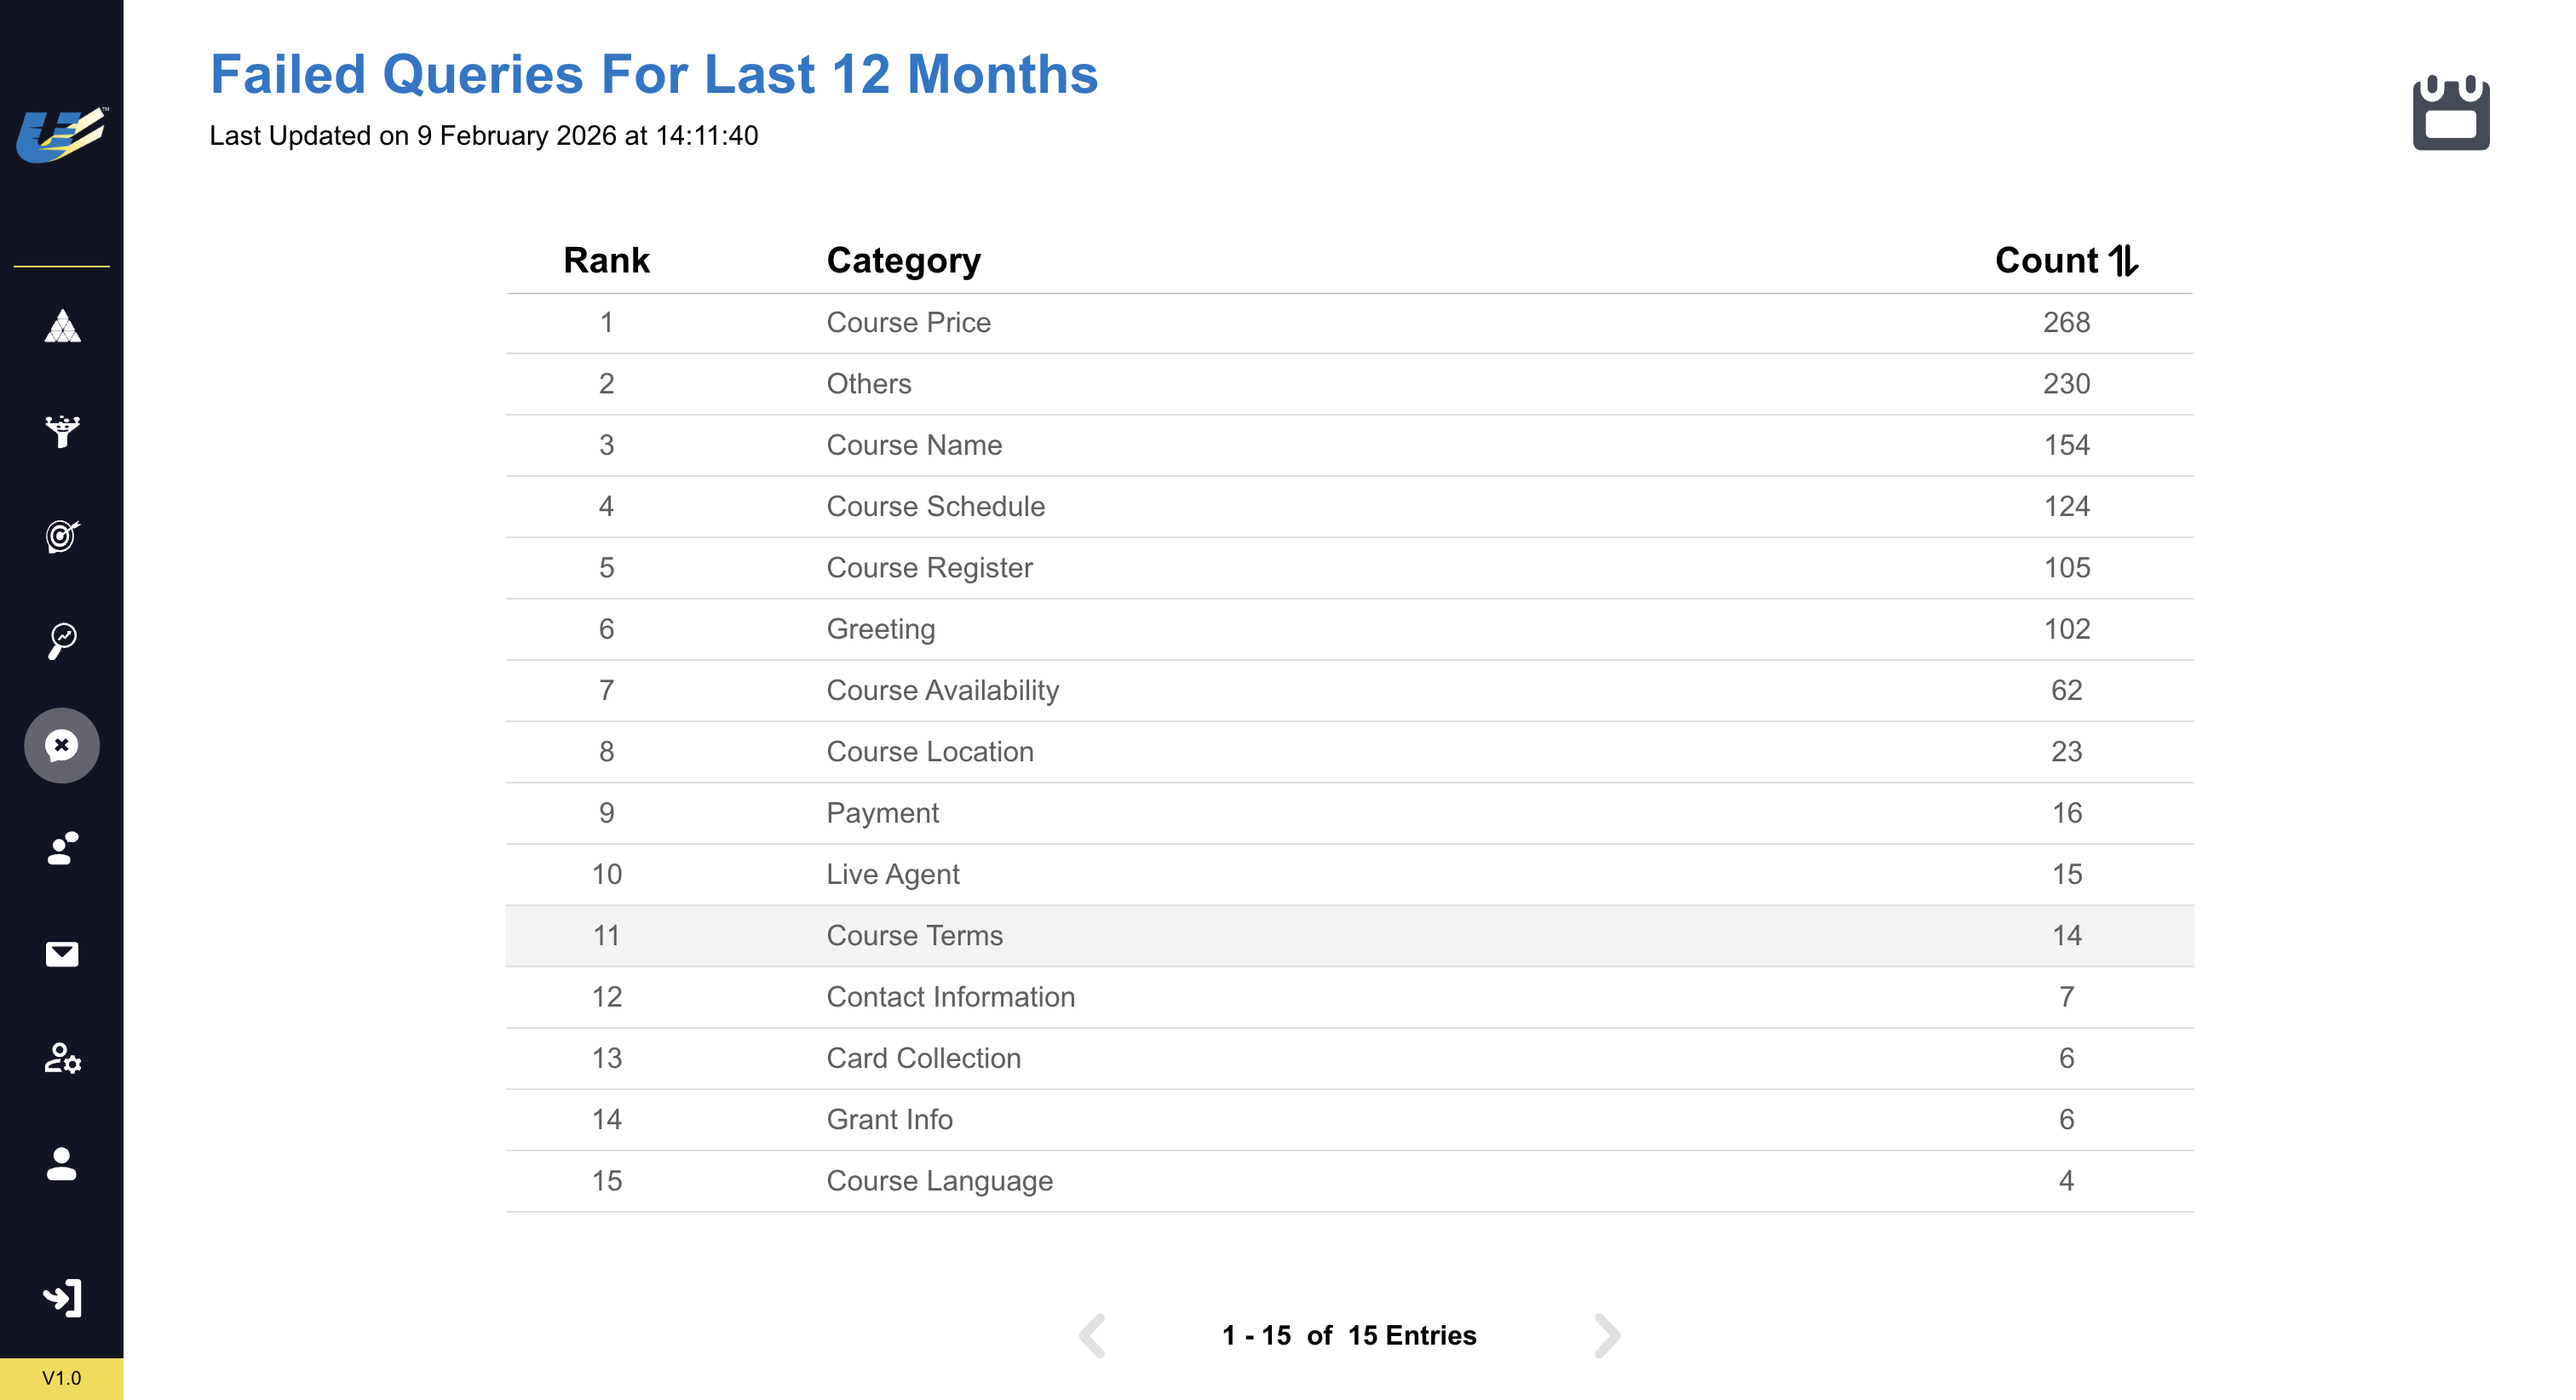
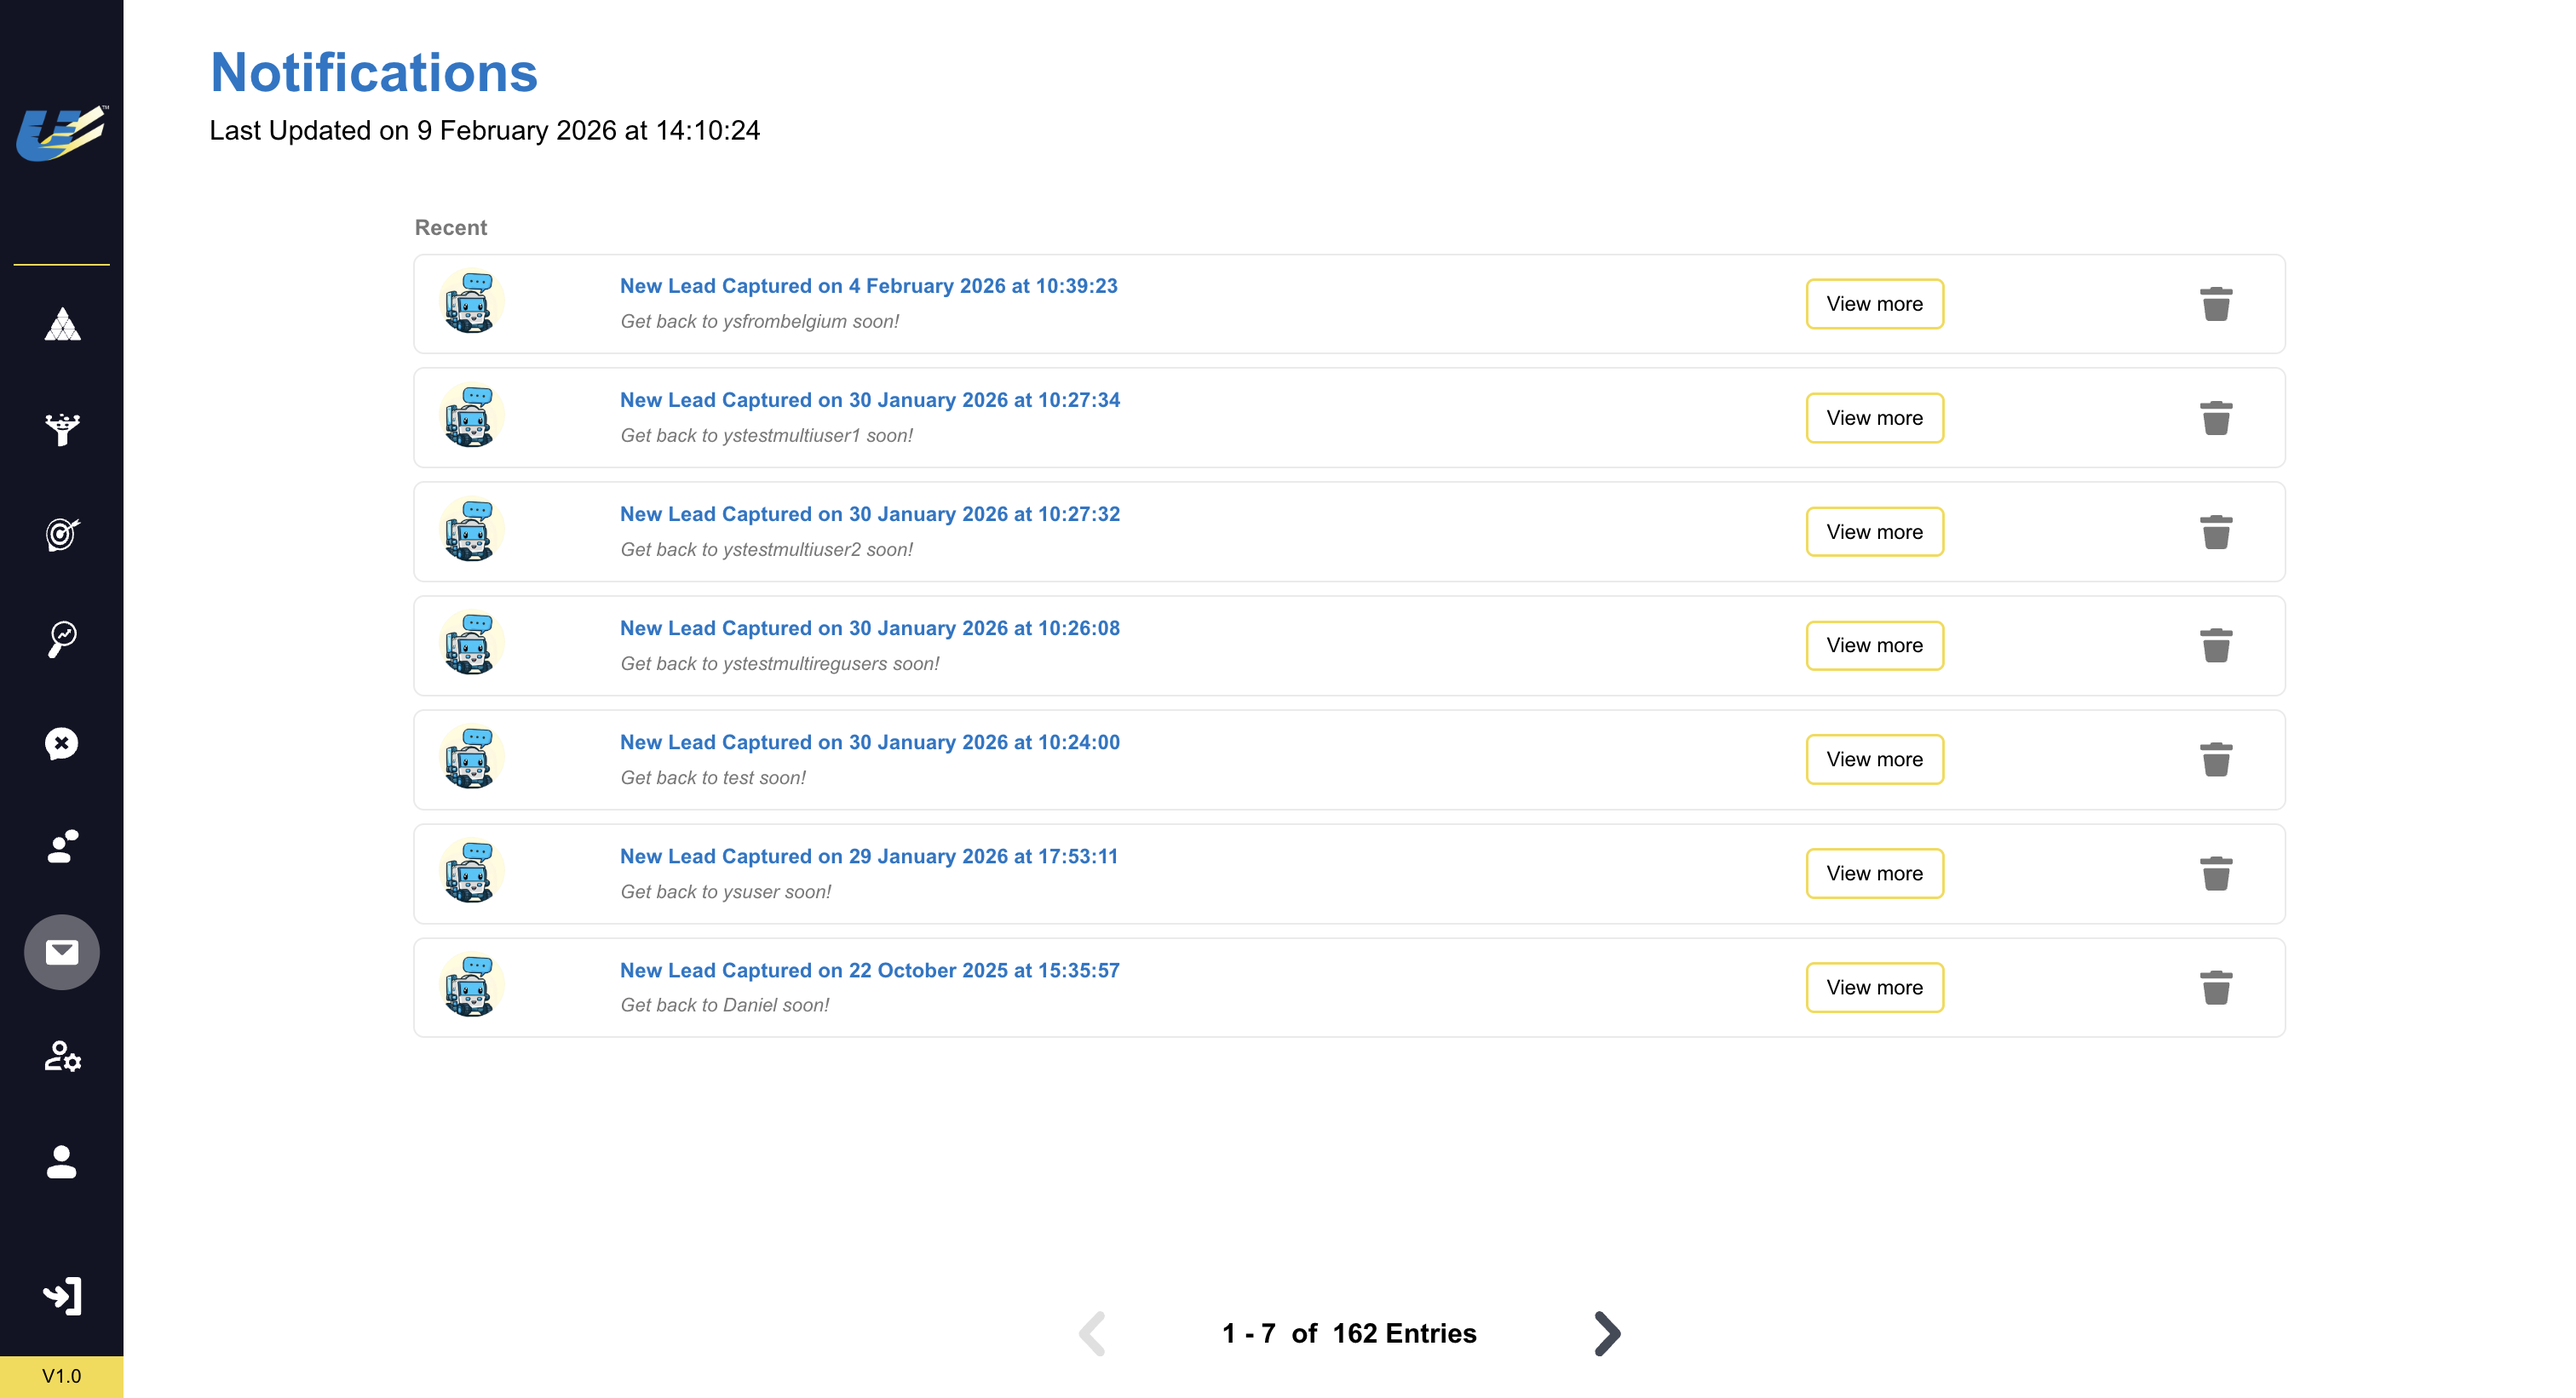
Updated project contents

diff --git a/app/app/page.tsx b/app/app/page.tsx
@@ -38,7 +38,7 @@ const DATA = {
   projects: [
     {
       title: "License Plate Extraction",
-      description: "An LLM-powered application that extracts and summarizes key information from dense PDF reports.",
+      description: "A computer vision pipeline project designed to automate license plate data capture and streamline data entry.",
       techStack: [
         "Python",
         "Flask",
@@ -47,13 +47,17 @@ const DATA = {
         "Optical Character Recognition",
         "Nvidia Jetson",
       ],
-      highlights: ["Processes 100+ page PDFs in seconds", "Implements RAG for highly accurate query responses"],
+      highlights: [
+        "Automated license plate data logging", 
+        "Minimizes human error",
+        "Boosts efficiency by 30% by eliminating paperwork and manual data entry",
+      ],
       contribution: "Lead Backend Developer",
-      images: ["/project1-a.jpg", "/project1-b.jpg"],
+      images: ["license-image-6.png","/license-image-1.png", "/license-image-2.png","license-image-3.png","license-image-4.png","license-image-5.png"],
     },
     {
       title: "AI Chatbot & Analytics",
-      description: "An LLM-powered application that extracts and summarizes key information from dense PDF reports.",
+      description: "An analytics tool for large language model chatbots that captures domain specific data, including trends, sales, popular topics, and speech patterns, to continuously improve performance and business.",
       techStack: [
         "JavaScript",
         "React", 
@@ -66,14 +70,20 @@ const DATA = {
         "Model Pipeline",
         "Raspberry Pi 5",
       ],
-      highlights: ["Processes 100+ page PDFs in seconds", "Implements RAG for highly accurate query responses"],
+      highlights: [
+        "Track trendlines for popular topics", 
+        "Analyze user demographics",
+        "Collect training data to improve existing models",
+        "Enhance understanding of human speech",
+        "Evaluate model performance",
+      ],
       contribution: "Lead Fullstack Developer",
       // Add paths to your actual images here
-      images: ["/ua-image-1.png", "/ua-image-2.png"] 
+      images: ["/ua-image-1.png", "/ua-image-2.png", "ua-image-3.png", "ua-image-4.png"] 
     },
     {
       title: "WitAI Chatbot",
-      description: "A web-based computer vision tool that identifies and tracks objects from live video feeds.",
+      description: "A large language model chatbot leveraging Meta\’s Wit.ai API for natural language processing, enabling human-like interactions and domain-specific responses while filtering out irrelevant queries.",
       techStack: [
         "JavaScript",
         "CSS3",
@@ -85,14 +95,18 @@ const DATA = {
         "Natural Language Processing",
         "Raspberry Pi 5",
       ],
-      highlights: ["Achieves 30 FPS inference in the browser", "Custom-trained YOLOv8 model for specialized tracking"],
+      highlights: [
+        "Natural, human-like speech", 
+        "Filtering irrelevant queries",
+        "Domain-specific responses"
+      ],
       contribution: "Lead Fullstack Developer",
-      images: ["/project2-a.jpg", "/project2-b.jpg"],
+      images: ["/unicon-image-1.png", "/unicon-image-2.png","unicon-image-3.png"],
       liveUrl: "https://www.ubts.academy/en/?gad_source=1&gad_campaignid=21303038567&gbraid=0AAAAA9u5AB7lxHzCyJnhrgS3_4xlNOrUT&gclid=CjwKCAjwpcTNBhA5EiwAdO1S9mURvqJS6nx7dX0UcdbB9-ZWq9Bt7gUJlqmw6UxF-y0I0kMosVpOVxoCn5EQAvD_BwE"
     },
     {
       title: "Kilaluan Cahaya Website",
-      description: "A fullstack marketing tool that generates optimized blog posts and social media copy using LLMs.",
+      description: "A corporate website designed to showcase industrial sand supply and dredging services, highlight sustainable resource management, and provide a platform for client engagement and inquiries.",
       techStack: [
         "TypeScript",
         "React",
@@ -100,9 +114,12 @@ const DATA = {
         "CSS3",
         "Vercel",
       ],
-      highlights: ["Built dynamic prompt templates", "Integrated user authentication and payment tiers"],
+      highlights: [
+        "Professional website for an industrial services company", 
+        "Responsive and user-friendly corporate website"
+      ],
       contribution: "Fullstack Developer",
-      images: ["/project3-a.jpg", "/project3-b.jpg", "/project3-c.jpg"],
+      images: ["/kilauan-image-1.png", "/kilauan-image-2.png", "/kilauan-image-3.png"],
       liveUrl: "https://15-kilauan-cahaya-landing-page.vercel.app/"
     },
   ],
